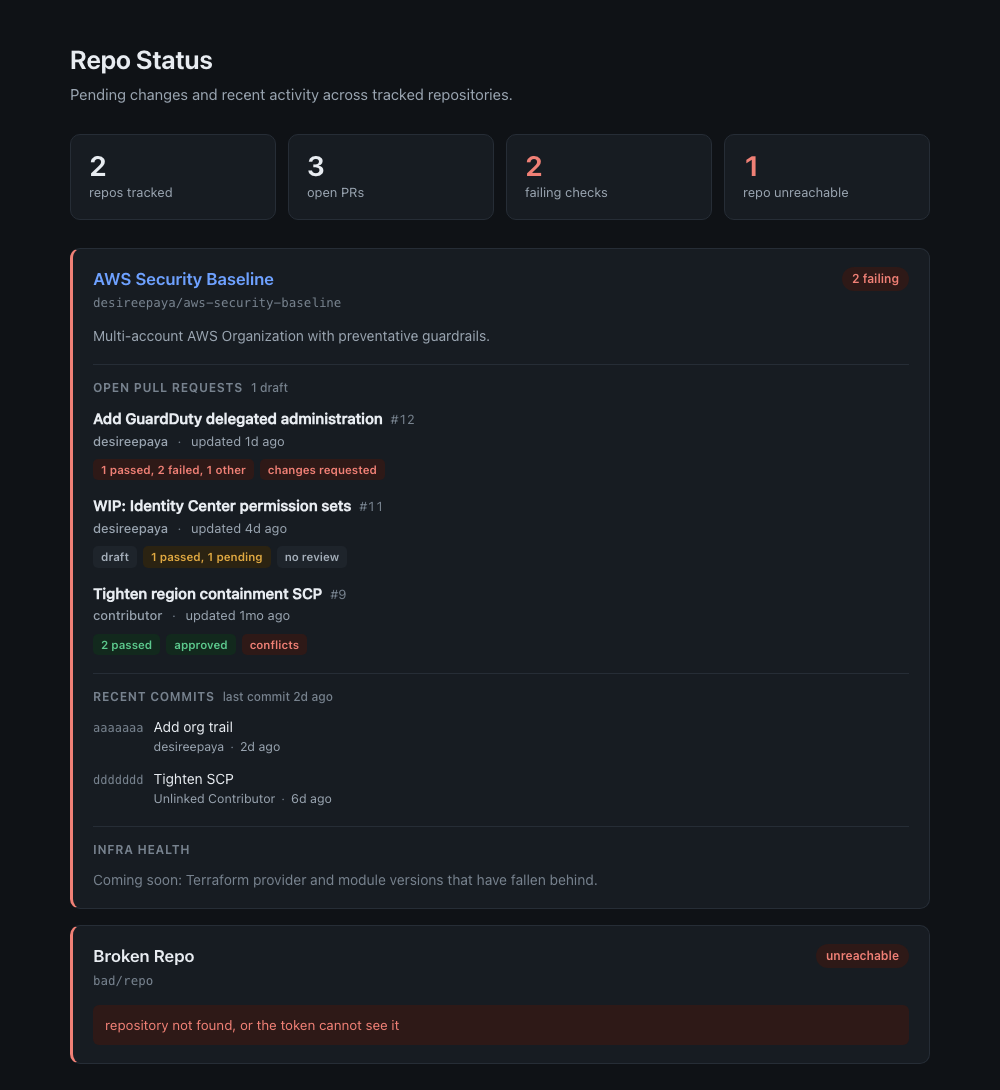
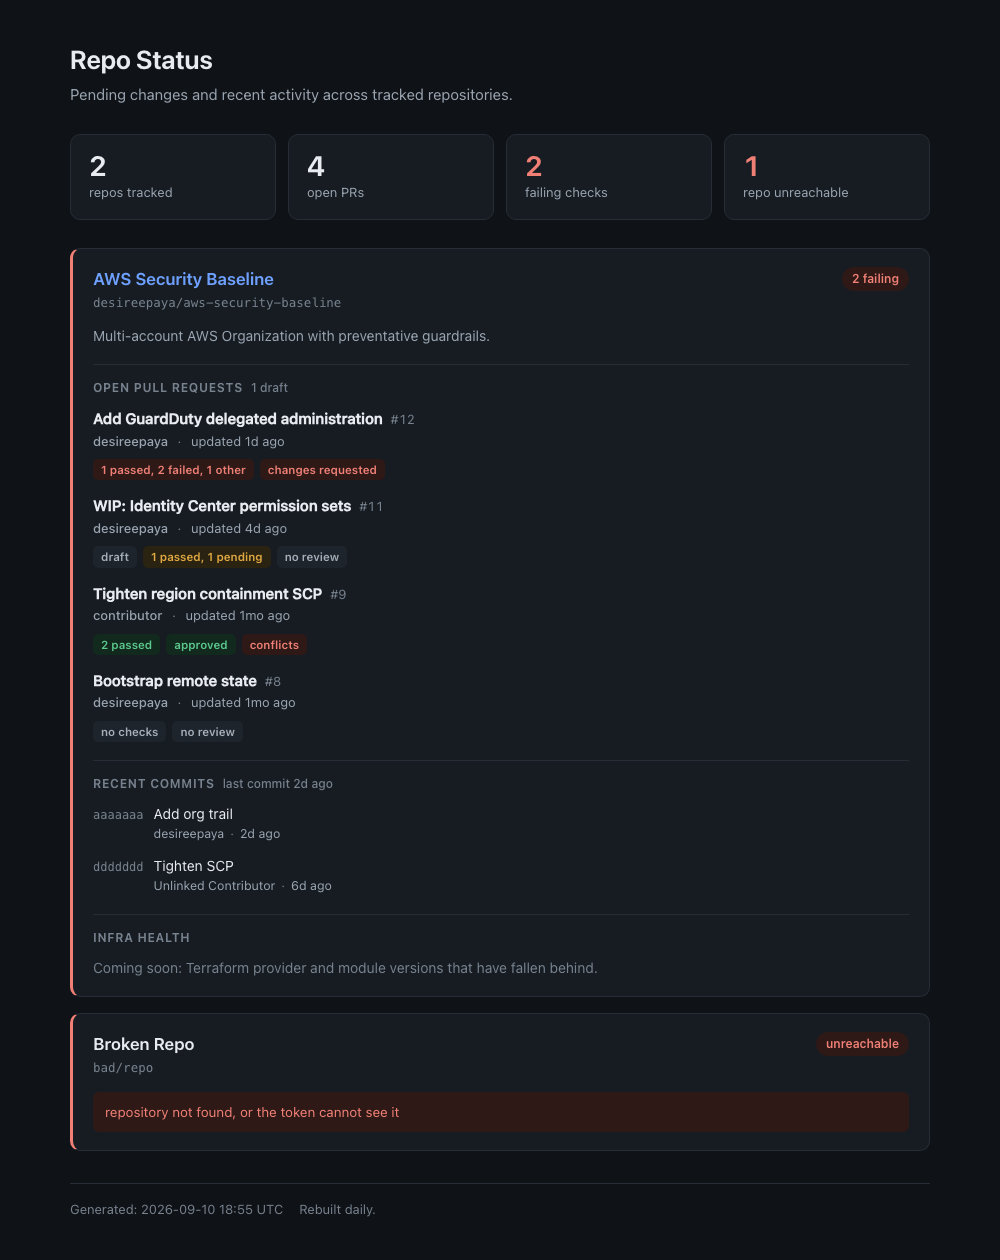
Test the config loader, run tests in CI, stop promising a clock time
config.py had no tests despite having the most rejection paths in the
project, and editing repos.yaml is the one routine change here. All
eleven error branches are now covered, along with the accepted slug
shapes and the display_name default.

The workflow runs pytest before generating anything, so a broken change
cannot reach the live page.

Separately: the footer claimed "Rebuilt daily at 15:00 UTC". Today's
scheduled run was dispatched at 17:57 UTC, nearly three hours late, and
started the instant it was created. GitHub queues scheduled events at
low priority and may delay or drop them, so the cron expression is a
request rather than a guarantee. The page now says "Rebuilt daily" and
lets the Generated timestamp speak for itself.

Sample screenshots are now rendered from the test fixtures rather than
a throwaway script, so they cannot drift from what the tests assert.

Claude-Session: https://claude.ai/code/session_01VQ1uppD6jL2XGUz4YRr42J

diff --git a/tests/test_config.py b/tests/test_config.py
@@ -1,0 +1,144 @@
+"""Config loading.
+
+A bad repos.yaml is the most likely way this project breaks in normal use,
+since adding a repo is the one routine edit. Every rejection path is checked,
+because a config error that slips through would publish a half-empty page
+rather than failing loudly.
+"""
+
+import pytest
+
+from repo_status.config import ConfigError, RepoConfig, load_config
+
+VALID = """
+repos:
+  - slug: desireepaya/aws-security-baseline
+    display_name: AWS Security Baseline
+  - slug: desireepaya/other-repo
+"""
+
+
+def write(tmp_path, text, name="repos.yaml"):
+    path = tmp_path / name
+    path.write_text(text, encoding="utf-8")
+    return path
+
+
+# ---- accepted ----------------------------------------------------------
+
+
+def test_loads_configured_repos(tmp_path):
+    repos = load_config(write(tmp_path, VALID))
+    assert [r.slug for r in repos] == [
+        "desireepaya/aws-security-baseline",
+        "desireepaya/other-repo",
+    ]
+
+
+def test_display_name_is_used_when_given(tmp_path):
+    repos = load_config(write(tmp_path, VALID))
+    assert repos[0].display_name == "AWS Security Baseline"
+
+
+def test_display_name_defaults_to_the_repo_name(tmp_path):
+    repos = load_config(write(tmp_path, VALID))
+    assert repos[1].display_name == "other-repo"
+
+
+def test_owner_and_name_are_split_from_the_slug():
+    repo = RepoConfig(slug="owner/name", display_name="n")
+    assert (repo.owner, repo.name) == ("owner", "name")
+
+
+@pytest.mark.parametrize(
+    "slug",
+    [
+        "owner/name",
+        "owner-with-hyphen/name-with-hyphen",
+        "owner.dot/name.dot",
+        "owner_score/name_score",
+        "Owner123/Name456",
+    ],
+)
+def test_accepted_slug_shapes(tmp_path, slug):
+    config = f"repos:\n  - slug: {slug}\n"
+    assert load_config(write(tmp_path, config))[0].slug == slug
+
+
+# ---- rejected ----------------------------------------------------------
+
+
+def test_missing_file(tmp_path):
+    with pytest.raises(ConfigError, match="not found"):
+        load_config(tmp_path / "nope.yaml")
+
+
+def test_invalid_yaml(tmp_path):
+    with pytest.raises(ConfigError, match="invalid YAML"):
+        load_config(write(tmp_path, "repos: [unclosed\n"))
+
+
+def test_empty_file(tmp_path):
+    with pytest.raises(ConfigError, match="empty"):
+        load_config(write(tmp_path, ""))
+
+
+def test_top_level_must_be_a_mapping(tmp_path):
+    with pytest.raises(ConfigError, match="top level must be a mapping"):
+        load_config(write(tmp_path, "- just\n- a\n- list\n"))
+
+
+def test_missing_repos_key(tmp_path):
+    with pytest.raises(ConfigError, match="missing required 'repos'"):
+        load_config(write(tmp_path, "something_else: true\n"))
+
+
+@pytest.mark.parametrize("body", ["repos: []\n", "repos: not-a-list\n"])
+def test_repos_must_be_a_non_empty_list(tmp_path, body):
+    with pytest.raises(ConfigError, match="non-empty list"):
+        load_config(write(tmp_path, body))
+
+
+def test_entry_must_be_a_mapping(tmp_path):
+    with pytest.raises(ConfigError, match="each entry must be a mapping"):
+        load_config(write(tmp_path, "repos:\n  - just-a-string\n"))
+
+
+def test_missing_slug(tmp_path):
+    with pytest.raises(ConfigError, match="missing required 'slug'"):
+        load_config(write(tmp_path, "repos:\n  - display_name: No Slug\n"))
+
+
+@pytest.mark.parametrize(
+    "slug",
+    [
+        "no-slash",
+        "too/many/slashes",
+        "/leading-slash",
+        "trailing-slash/",
+        "spaces in/name",
+    ],
+)
+def test_malformed_slugs_are_rejected(tmp_path, slug):
+    config = f'repos:\n  - slug: "{slug}"\n'
+    with pytest.raises(ConfigError, match="must be 'owner/name'"):
+        load_config(write(tmp_path, config))
+
+
+def test_duplicate_slugs_are_rejected(tmp_path):
+    config = "repos:\n  - slug: a/b\n  - slug: a/b\n"
+    with pytest.raises(ConfigError, match="duplicate slug"):
+        load_config(write(tmp_path, config))
+
+
+def test_display_name_must_be_a_string(tmp_path):
+    config = "repos:\n  - slug: a/b\n    display_name: [1, 2]\n"
+    with pytest.raises(ConfigError, match="'display_name' must be a string"):
+        load_config(write(tmp_path, config))
+
+
+def test_error_names_the_offending_entry(tmp_path):
+    """Index in the message, so a long file points at the right line."""
+    config = "repos:\n  - slug: good/one\n  - slug: bad\n"
+    with pytest.raises(ConfigError, match=r"repos\[1\]"):
+        load_config(write(tmp_path, config))

diff --git a/README.md b/README.md
@@ -42,7 +42,7 @@ config/repos.yaml  ->  GitHub API  ->  HTML page  ->  published to GitHub Pages
 1. A config file lists which repositories to track.
 2. A Python script calls the GitHub API and collects pull request, test and commit data.
 3. Jinja2 templates turn that data into a single HTML page.
-4. A scheduled GitHub Actions job runs the whole pipeline daily at 15:00 UTC and publishes the result.
+4. A scheduled GitHub Actions job runs the whole pipeline once a day and publishes the result.
 
 Adding a repository to the dashboard is a config change. No code edits are needed:
 
@@ -67,7 +67,7 @@ Add `--serve` to open a local preview in the browser.
 uv run pytest
 ```
 
-The tests fake every GitHub response, so they need no network access and no token. That is deliberate rather than convenient: the repository this dashboard tracks usually has no open pull requests, so most of the states worth testing, such as a failing test run or a merge conflict, cannot be produced with real data.
+The daily job runs these before publishing, so a broken change cannot reach the live page. The tests fake every GitHub response, so they need no network access and no token. That is deliberate rather than convenient: the repository this dashboard tracks usually has no open pull requests, so most of the states worth testing, such as a failing test run or a merge conflict, cannot be produced with real data.
 
 ## Design decisions
 

diff --git a/repo-status-dashboard-plan.md b/repo-status-dashboard-plan.md
@@ -71,7 +71,7 @@ One authenticated call chain per configured repo:
 
 ## GitHub Actions workflow (`.github/workflows/build-dashboard.yml`)
 
-- Triggers: `schedule: cron: '0 15 * * *'` (15:00 UTC daily), `workflow_dispatch`, and `push` to `main` (so a `repos.yaml` edit rebuilds the site immediately rather than waiting for the next cron).
+- Triggers: `schedule: cron: '0 15 * * *'` (nominally 15:00 UTC daily; observed in practice at 17:57 UTC, since GitHub dispatches scheduled events at low priority and can delay them by hours or skip them entirely under load, so the page must not promise a clock time), `workflow_dispatch`, and `push` to `main` (so a `repos.yaml` edit rebuilds the site immediately rather than waiting for the next cron).
 - Uses the modern Pages flow: `actions/configure-pages`, `actions/upload-pages-artifact`, `actions/deploy-pages`.
 - Steps:
   1. Checkout dashboard repo.
